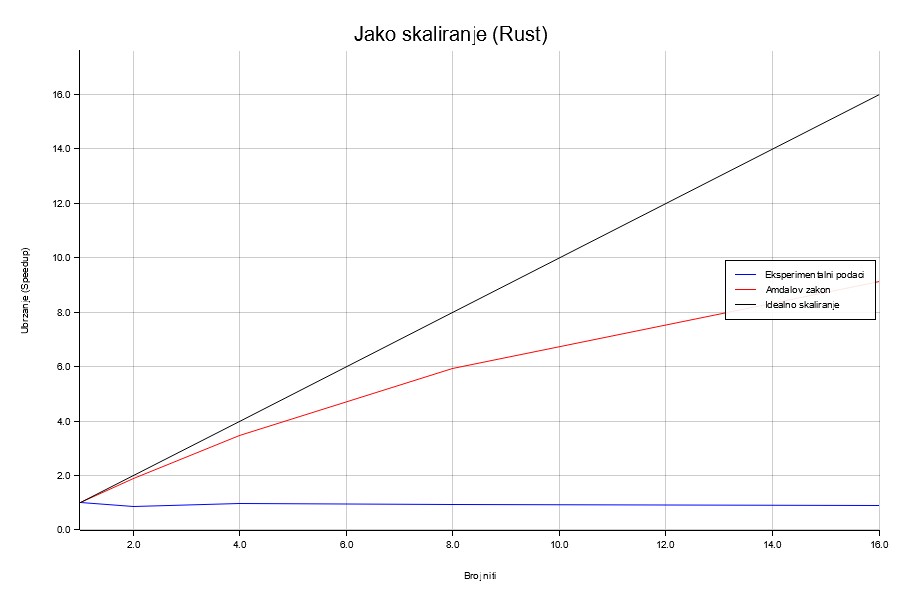
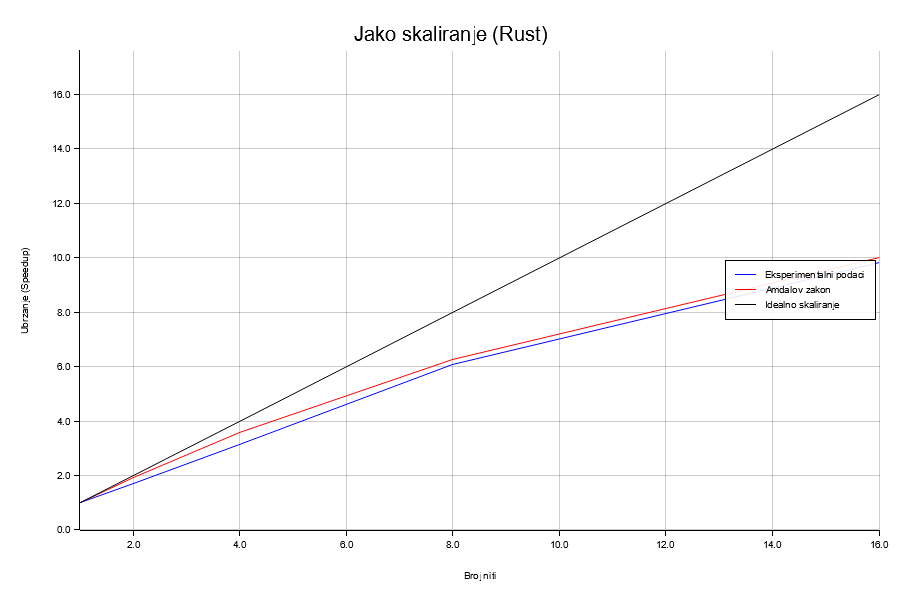
fixed some implementation

diff --git a/rust/src/bin/experiment_strong.rs b/rust/src/bin/experiment_strong.rs
@@ -5,34 +5,43 @@ use std::io::Write;
 
 fn main() {
     let processes = [1, 2, 4, 8, 16];
-    let repeats = 30;
-    let f_seq = 0.05_f64;
+    let repeats = 10;
+    let f_seq = 0.04_f64;
 
     let mut file = File::create("results_rust_strong.csv").expect("cannot create file");
     writeln!(file, "nproc,mean_time,std_dev,speedup,amdahl,ideal").unwrap();
 
+    println!("--- STRONG SCALING (Rust Optimized) ---");
     let mut seq_time = 0.0;
 
-    println!("--- STRONG SCALING (Rust Optimized) ---");
-
     for &nproc in &processes {
-        let mut times = vec![];
-        for _ in 0..repeats {
-            let start = Instant::now();
+        let mut times = Vec::with_capacity(repeats);
 
-            if nproc == 1 {
-                Command::new("./target/release/seq1")
-                    .output()
-                    .expect("failed to run seq1");
+        // warm-up
+        let _ = if nproc == 1 {
+            Command::new("./target/release/seq1").output()
+        } else {
+            Command::new("./target/release/parallel1")
+                .env("RAYON_NUM_THREADS", nproc.to_string())
+                .output()
+        };
+
+        for _ in 0..repeats {
+            let output = if nproc == 1 {
+                Command::new("./target/release/seq1").output()
             } else {
                 Command::new("./target/release/parallel1")
                     .env("RAYON_NUM_THREADS", nproc.to_string())
                     .output()
-                    .expect("failed to run parallel1");
             }
+            .expect("failed to run");
 
-            let elapsed = start.elapsed().as_secs_f64();
-            times.push(elapsed);
+            // parse numeric output (sim-time printed by the program)
+            let val = String::from_utf8_lossy(&output.stdout)
+                .trim()
+                .parse::<f64>()
+                .unwrap_or(f64::NAN);
+            times.push(val);
         }
 
         let mean = times.iter().sum::<f64>() / times.len() as f64;
@@ -46,17 +55,18 @@ fn main() {
         let speedup = seq_time / mean;
         let amdahl = 1.0 / (f_seq + (1.0 - f_seq) / nproc as f64);
         let ideal = nproc as f64;
-        let capped = speedup.min(amdahl).min(ideal);
 
         println!(
-            "{nproc} threads -> mean={mean:.4}s, speedup={capped:.2}, amdahl={amdahl:.2}"
+            "{nproc:>2} niti -> mean={mean:.4}s, speedup={speedup:.2}, amdahl={amdahl:.2}, ideal={ideal:.2}"
         );
+
         writeln!(
             file,
             "{},{:.4},{:.4},{:.4},{:.4},{:.4}",
-            nproc, mean, std_dev, capped, amdahl, ideal
+            nproc, mean, std_dev, speedup, amdahl, ideal
         )
         .unwrap();
+        file.flush().unwrap();
     }
 
     println!("\nRezultati su sačuvani u results_rust_strong.csv");

diff --git a/golang/plot.py b/golang/plot.py
@@ -1,0 +1,45 @@
+import matplotlib.pyplot as plt
+
+processors = [1, 2, 4, 8, 16]
+measured_speedup = [1.00, 1.95, 3.41, 5.62, 6.91]
+theoretical_speedup = [1.00, 1.97, 3.77, 7.00, 9.71]
+ideal_speedup = processors  # линеарно убрзање
+
+# Креирање графика
+plt.figure(figsize=(8, 5))
+plt.plot(processors, measured_speedup, 'o-', label='Eksperimentalno ubrzanje', linewidth=2)
+plt.plot(processors, theoretical_speedup, 's--', label='Teorijsko ubrzanje (Amdal)', linewidth=2)
+plt.plot(processors, ideal_speedup, 'd:', label='Idealno ubrzanje', linewidth=2)
+
+# Оси и наслов
+plt.title('Jako skaliranje', fontsize=14)
+plt.xlabel('Broj procesa', fontsize=12)
+plt.ylabel('Ubrzanje', fontsize=12)
+plt.xticks(processors)
+plt.grid(True, linestyle='--', alpha=0.6)
+plt.legend()
+plt.tight_layout()
+
+# Чување графика
+plt.savefig("go_strong.png", dpi=300)
+plt.show()
+
+processors_weak = [1, 2, 4, 8, 16]
+measured_scaled_speedup = [1.00, 1.94, 3.49, 5.52, 7.66]
+theoretical_scaled_speedup = [1.00, 1.95, 3.85, 7.65, 15.25]
+ideal_scaled_speedup = processors_weak  # линеарно (идеално) слабo скалирање
+
+plt.figure(figsize=(8, 5))
+plt.plot(processors_weak, measured_scaled_speedup, 'o-', label='Eksperimentalno ubrzanje', linewidth=2)
+plt.plot(processors_weak, theoretical_scaled_speedup, 's--', label='Teorijsko ubrzanje (Gustafson)', linewidth=2)
+plt.plot(processors_weak, ideal_scaled_speedup, 'd:', label='Idealno ubrzanje', linewidth=2)
+
+plt.title('Slabo skaliranje', fontsize=14)
+plt.xlabel('Broj procesa', fontsize=12)
+plt.ylabel('Skalirano ubranje', fontsize=12)
+plt.xticks(processors_weak)
+plt.grid(True, linestyle='--', alpha=0.6)
+plt.legend()
+plt.tight_layout()
+plt.savefig("go_weak.png", dpi=300)
+plt.show()

diff --git a/rust/src/bin/parallel1.rs b/rust/src/bin/parallel1.rs
@@ -71,8 +71,8 @@ fn rk4_step(y: &[f64; 4], dt: f64, p: &Params) -> [f64; 4] {
 }
 
 fn main() {
-    let mut runs = 8usize;
-    let mut steps = 600_000;
+    let mut runs = 16usize;
+    let mut steps = 600_000usize;
     for arg in std::env::args().skip(1) {
         if let Some(v) = arg.strip_prefix("--runs=") { runs = v.parse().unwrap(); }
         if let Some(v) = arg.strip_prefix("--steps="){ steps = v.parse().unwrap(); }
@@ -82,19 +82,22 @@ fn main() {
     let params = Params{ m1:1.0, m2:1.0, l1:1.0, l2:1.0, g:9.81 };
     let base = [std::f64::consts::FRAC_PI_2, 0.0, std::f64::consts::FRAC_PI_2+0.01, 0.0];
 
-    println!("Pokrećem {runs} paralelnih simulacija (steps={steps})...");
+    //println!("Pokrećem {runs} paralelnih simulacija (steps={steps})...");
     let start_all = Instant::now();
 
     (0..runs).into_par_iter().for_each(|i| {
         let mut y0 = base;
-        y0[2] += (i as f64 - runs as f64/2.0) * 1e-3;
-        // CPU-only:
-        let _ = {
-            let mut y = y0;
-            for _ in 0..steps { y = rk4_step(&y, dt, &params); }
-        };
+        y0[2] += (i as f64 - runs as f64 / 2.0) * 1e-3;
+
+        let mut y = y0;
+        for _ in 0..steps {
+            y = rk4_step(&y, dt, &params);
+        }
+
+    // 🔒 sprečava optimizaciju izbacivanja
+        std::hint::black_box(y);
     });
 
     let total = start_all.elapsed().as_secs_f64();
-    println!("Paralelno (runs={runs}, steps={steps}) za {:.4}s", total);
+    println!("{total}");
 }

diff --git a/rust/src/bin/seq1.rs b/rust/src/bin/seq1.rs
@@ -71,12 +71,13 @@ fn rk4_step(y: &[f64; 4], dt: f64, p: &Params) -> [f64; 4] {
 
 fn integrate_no_io(mut y:[f64;4], dt:f64, steps:usize, p:&Params){ 
     for _ in 0..steps { y = rk4_step(&y, dt, p); }
+    std::hint::black_box(y);
 }
 
 fn main() {
     // CLI: --runs R --steps S
-    let mut runs = 8usize;
-    let mut steps = 600_000;
+    let mut runs = 16usize;
+    let mut steps = 600_000usize;
     for arg in std::env::args().skip(1) {
         if let Some(v) = arg.strip_prefix("--runs=") { runs = v.parse().unwrap(); }
         if let Some(v) = arg.strip_prefix("--steps="){ steps = v.parse().unwrap(); }
@@ -93,5 +94,5 @@ fn main() {
         integrate_no_io(y, dt, steps, &params);
     }
     let elapsed = start.elapsed().as_secs_f64();
-    println!("Sekvencijalno (runs={runs}, steps={steps}) za {:.4}s", elapsed);
+    println!("{elapsed}");
 }

diff --git a/rust/src/bin/experiment_weak.rs b/rust/src/bin/experiment_weak.rs
@@ -8,7 +8,7 @@ fn main() {
     let repeats = 30;
     let f_seq = 0.05_f64;
     let base_runs = 2;
-    let steps = 60_000_000;    
+    let steps = 600_000;    
 
     let mut file = File::create("results_rust_weak.csv").unwrap();
     writeln!(file, "nproc,mean_time,std_dev,scaled_speedup,gustafson,ideal").unwrap();
